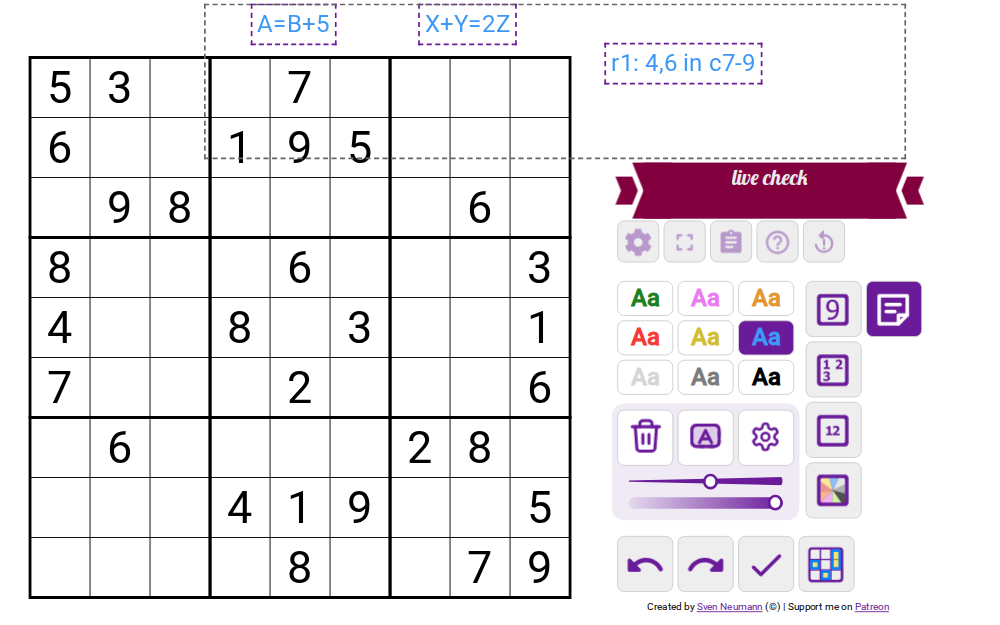
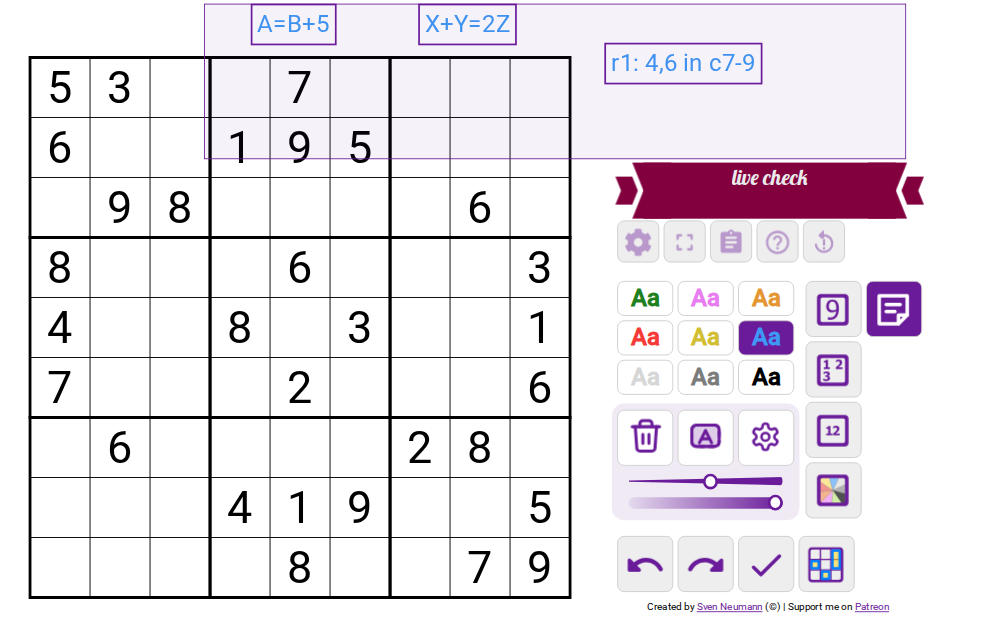
Text Anywhere: hover outline, move cursor, bigger handles, solid selection (#530) (#533)
* Text Anywhere: hover outline, move cursor, bigger handles, solid selection (#530)

Closes #530

* Text Anywhere pictures: retake slides 6, 7 and 9 with the new looks (#530)

Closes #530

* Text Anywhere hover look: the fill draws, the cue keeps its strength on a faded note; tests check color and fill (#530)

Closes #530

* Text Anywhere: retake slide 7 with the hover fill (#530)

Closes #530

* Draw tool scroll live test: a note off the board shows the move cursor, not the board's (#530)

Closes #530

---------

Changed region(s): [[0.217, 0.2432, 0.899, 0.2736], [0.217, 0.0, 0.899, 0.0304]]

diff --git a/draw-tool.user.js b/draw-tool.user.js
@@ -1,7 +1,7 @@
 // ==UserScript==
 // @name         SudokuPad Text Anywhere
 // @namespace    https://github.com/caneff/sudokupad-scripts
-// @version      0.30.1
+// @version      0.31.0
 // @description  Adds a Text Anywhere tool for typed notes on the board or beside it, such as cage sums, in colors of its own. Each puzzle keeps its own notes.
 // @match        https://sudokupad.app/*
 // @match        https://*.sudokupad.app/*
@@ -16,7 +16,7 @@
 (function () {
   'use strict'
 
-  const VERSION = '0.30.1'
+  const VERSION = '0.31.0'
   const TOOL_NAME = 'draw'
   const LAYER_ID = 'draw-tool-layer'
   const MIN_WIDTH = 1
@@ -230,7 +230,9 @@
   const HANDLE_CLASS = 'draw-tool-resize'
   const SELECTION_CLASS = 'draw-tool-selection'
   const OPEN_OUTLINE_CLASS = 'draw-tool-open-outline'
-  const HANDLE_PX = 10
+  const HANDLE_PX = 11
+  // A note's own opacity, as a number, for the hover look: it draws on the note and the note's opacity multiplies into it.
+  const NOTE_OPACITY_VAR = '--draw-tool-note-opacity'
   const RECTANGLE_CLASS = 'draw-tool-selection-rectangle'
   const TRAY_CLASS = 'draw-tool-tray'
   const SLIDERS_CLASS = 'draw-tool-sliders'
@@ -1565,6 +1567,7 @@
       maxHeight: limit,
       color: itemColor(item.color),
       opacity: String(itemOpacity(item) / 100),
+      [NOTE_OPACITY_VAR]: String(itemOpacity(item) / 100),
       backgroundColor: item.bg ? boxFill(boxColor, itemColor(item.color)) : 'transparent',
       boxShadow: item.bg ? frameShadow(frame) : 'none',
       textShadow: item.bg ? 'none' : haloShadow(outline, PAGE_COLOR),
@@ -1573,9 +1576,17 @@
     }
   }
 
+  // Sets a noteStyle on an element: a custom property needs setProperty, which assigning to the style's own fields does not do.
+  function applyNoteStyle (element, style) {
+    for (const [name, value] of Object.entries(style)) {
+      if (name.startsWith('--')) element.style.setProperty(name, value)
+      else element.style[name] = value
+    }
+  }
+
   // The open note sits in the layer itself, in screen pixels, on the board or off it.
   function styleNote (element, item, map) {
-    Object.assign(element.style, noteStyle(item, screenPoint(item, map.toScreen), map.scale))
+    applyNoteStyle(element, noteStyle(item, screenPoint(item, map.toScreen), map.scale))
     element.classList.toggle(TEXT_BACKGROUND_CLASS, Boolean(item.bg))
   }
 
@@ -1715,6 +1726,8 @@
   const PANEL = '.tool-draw .controls-input'
   const controlButtons = Object.keys(CONTROL_COLUMNS).map((name) => `${PANEL} button.${name}`).join(', ')
   // Each color button shows "Aa" in its draw color, so a recolor follows.
+  const hoverShare = (percent) => `color-mix(in srgb, ${PANEL_COLOR} min(100%, calc(${percent}% / var(${NOTE_OPACITY_VAR}))), transparent)`
+  const hoverLook = (outlinePercent, fillPercent) => `outline: 1px solid ${hoverShare(outlinePercent)}; outline-offset: 2px; background-image: linear-gradient(${hoverShare(fillPercent)}, ${hoverShare(fillPercent)});`
   const PANEL_CSS = [
     ...panelCss({ panel: PANEL, colorButton: 'button.digit', controlButtons, tray: TRAY_CLASS, sliders: SLIDERS_CLASS, sliderRow: SLIDER_ROW_CLASS, wedgeSlider: SIZE_SLIDER, fadeSlider: OPACITY_SLIDER }),
     `${PANEL} button.digit { text-indent: -999em; overflow: hidden; color: transparent; }`,
@@ -1737,16 +1750,18 @@
     // A thin bar whose room is kept whether it shows or not, so the text does not wrap again as the pointer comes and goes.
     `.${TEXT_CLASS}.${SCROLLS_CLASS} { overflow-y: auto; scrollbar-width: thin; scrollbar-color: transparent transparent; }`,
     `.${ACTIVE_CLASS} .${TEXT_CLASS}.${SCROLLS_CLASS}:hover { scrollbar-color: currentColor transparent; }`,
-    // Under every other tool a press or a move over a note goes to what lies under it, as if the notes were not there. A note keeps the cursor of the
-    // page around it: SudokuPad's pointer on the board, the arrow beside it.
-    `.${ACTIVE_CLASS} .${TEXT_CLASS}:not(.${TEXT_BOX_CLASS}) { pointer-events: auto; cursor: default; }`,
-    `.${ACTIVE_CLASS} .${BOARD_NOTES_CLASS} .${TEXT_CLASS} { cursor: pointer; }`,
+    // Under every other tool a press or a move over a note goes to what lies under it, as if the notes were not there. Under this one a closed note shows
+    // the move cursor, and a note neither selected nor open shows a faint outline and fill, so a click reads as selecting it and not as starting a new note.
+    // The hover look is drawn on the note itself, so each share is divided by the note's opacity, to a cap of all of it: a faded note's cue stays about as visible as the note.
+    // The fill is a background image because the note's inline background color, empty or its box, wins over any stylesheet color.
+    `.${ACTIVE_CLASS} .${TEXT_CLASS}:not(.${TEXT_BOX_CLASS}) { pointer-events: auto; cursor: move; }`,
+    `.${ACTIVE_CLASS} .${TEXT_CLASS}:not(.${TEXT_BOX_CLASS}, .${SELECTED_CLASS}):hover { ${hoverLook(35, 4)} }`,
     `:is(.${BOARD_NOTES_CLASS}, .${SCREEN_NOTES_CLASS}) { position: absolute; left: 0; top: 0; transform-origin: 0 0; }`,
     // The outline is a box of its own in the layer, since a note's opacity would fade an outline drawn on the note itself.
-    `.${SELECTION_CLASS} { position: absolute; box-sizing: border-box; pointer-events: none; outline: 2px dashed ${PANEL_COLOR}; outline-offset: 2px; }`,
+    `.${SELECTION_CLASS} { position: absolute; box-sizing: border-box; pointer-events: none; outline: 2px solid ${PANEL_COLOR}; outline-offset: 2px; }`,
     `.${SELECTION_CLASS}.${OPEN_OUTLINE_CLASS} { outline-width: 1px; outline-offset: 1px; }`,
-    `.${RECTANGLE_CLASS} { position: absolute; box-sizing: border-box; border: 1px dashed ${PANEL_COLOR}; background: color-mix(in srgb, ${PANEL_COLOR} 8%, transparent); }`,
-    `.${HANDLE_CLASS} { position: absolute; box-sizing: border-box; width: ${HANDLE_PX}px; height: ${HANDLE_PX}px; background: ${PANEL_COLOR}; border: 2px solid #fff; border-radius: 2px; pointer-events: auto; }`,
+    `.${RECTANGLE_CLASS} { position: absolute; box-sizing: border-box; border: 1px solid ${PANEL_COLOR}; background: color-mix(in srgb, ${PANEL_COLOR} 6%, transparent); }`,
+    `.${HANDLE_CLASS} { position: absolute; box-sizing: border-box; width: ${HANDLE_PX}px; height: ${HANDLE_PX}px; background: ${PANEL_COLOR}; border: 2px solid #fff; border-radius: 2px; box-shadow: 0 0 0 1px ${PANEL_COLOR}, 0 1px 3px rgb(0 0 0 / .3); pointer-events: auto; }`,
     `.${TEXT_BOX_CLASS} { pointer-events: auto; min-width: 0.3em; cursor: text; }`,
     // The tool bar is a grid and stock buttons have order 0, so Text Anywhere's stays last whenever another is added.
     `.controls-tool #control-${TOOL_NAME} { order: 1; }`
@@ -2202,7 +2217,7 @@
     const style = item.fixed ? noteStyle(item, drawnPoint(item), map.scale) : noteStyle(item, item.at, 1)
     const look = JSON.stringify(style)
     if (look !== shown.look) {
-      Object.assign(element.style, style)
+      applyNoteStyle(element, style)
       element.classList.toggle(TEXT_BACKGROUND_CLASS, Boolean(item.bg))
     }
     shownNotes.set(element, { ...shown, item, text: item.text, look })

diff --git a/site/index.html b/site/index.html
@@ -75,9 +75,9 @@
       <div class="slide-frame">
         <img class="slide current" src="https://raw.githubusercontent.com/caneff/sudokupad-scripts/main/docs/research/draw-tool/draw-tool-slide-1-type.png?v=39391d8" alt="Three orange lines typed with Enter in the margin beside the top rows, A=B+5, A+B=11 and B=3, A=8, with the Text Anywhere panel below them" width="1000" height="625">
         <img class="slide" src="https://raw.githubusercontent.com/caneff/sudokupad-scripts/main/docs/research/draw-tool/draw-tool-slide-3-background.png?v=d3874a9" alt="A bold red formula, A+B=11, on a cell edge with no box, and a red formula, X+Y=2Z, in a page-colored box that hides the grid lines under it, with the Background button on" width="1000" height="625">
-        <img class="slide" src="https://raw.githubusercontent.com/caneff/sudokupad-scripts/main/docs/research/draw-tool/draw-tool-slide-6-select.png?v=21c33b7" alt="Three blue notes in the margin, A=B+5 and X+Y=2Z above the grid and r1: 4,6 in c7-9 beside row 1, each with a dashed purple outline, selected by a dashed drag box and recolored from orange to blue together" width="1000" height="625">
-        <img class="slide" src="https://raw.githubusercontent.com/caneff/sudokupad-scripts/main/docs/research/draw-tool/draw-tool-slide-9-long.png?v=db4d63e" alt="A blue note in the margin, open for typing and made two lines tall with the handle on its bottom right corner, scrolled to the end to show 2B+5=11 and B=3, A=8, with its scroll bar beside the text" width="1000" height="625">
-        <img class="slide" src="https://raw.githubusercontent.com/caneff/sudokupad-scripts/main/docs/research/draw-tool/draw-tool-slide-7-erase.png?v=9777876" alt="A red ring on a green note above the grid reading A=B+5, where a right click lands" width="1000" height="625">
+        <img class="slide" src="https://raw.githubusercontent.com/caneff/sudokupad-scripts/main/docs/research/draw-tool/draw-tool-slide-6-select.png?v=4a3a9c7" alt="Three blue notes in the margin, A=B+5 and X+Y=2Z above the grid and r1: 4,6 in c7-9 beside row 1, each with a solid purple outline, selected by a solid purple drag box and recolored from orange to blue together" width="1000" height="625">
+        <img class="slide" src="https://raw.githubusercontent.com/caneff/sudokupad-scripts/main/docs/research/draw-tool/draw-tool-slide-9-long.png?v=5e97387" alt="A blue note in the margin, open for typing and made two lines tall with the handle on its bottom right corner, scrolled to the end to show 2B+5=11 and B=3, A=8, with its scroll bar beside the text" width="1000" height="625">
+        <img class="slide" src="https://raw.githubusercontent.com/caneff/sudokupad-scripts/main/docs/research/draw-tool/draw-tool-slide-7-erase.png?v=6d0db42" alt="A red ring on a green note above the grid reading A=B+5, which shows a faint purple outline under the pointer, where a right click lands" width="1000" height="625">
       </div>
       <div class="slide-bar">
         <div class="slide-captions">

diff --git a/site/draw-tool.html b/site/draw-tool.html
@@ -18,9 +18,9 @@
     <div class="slide-frame">
       <img class="slide current" src="https://raw.githubusercontent.com/caneff/sudokupad-scripts/main/docs/research/draw-tool/draw-tool-slide-1-type.png?v=39391d8" alt="Three orange lines typed with Enter in the margin beside the top rows, A=B+5, A+B=11 and B=3, A=8, with the Text Anywhere panel below them" width="1000" height="625">
       <img class="slide" src="https://raw.githubusercontent.com/caneff/sudokupad-scripts/main/docs/research/draw-tool/draw-tool-slide-3-background.png?v=d3874a9" alt="A bold red formula, A+B=11, on a cell edge with no box, and a red formula, X+Y=2Z, in a page-colored box that hides the grid lines under it, with the Background button on" width="1000" height="625">
-      <img class="slide" src="https://raw.githubusercontent.com/caneff/sudokupad-scripts/main/docs/research/draw-tool/draw-tool-slide-6-select.png?v=21c33b7" alt="Three blue notes in the margin, A=B+5 and X+Y=2Z above the grid and r1: 4,6 in c7-9 beside row 1, each with a dashed purple outline, selected by a dashed drag box and recolored from orange to blue together" width="1000" height="625">
-      <img class="slide" src="https://raw.githubusercontent.com/caneff/sudokupad-scripts/main/docs/research/draw-tool/draw-tool-slide-9-long.png?v=db4d63e" alt="A blue note in the margin, open for typing and made two lines tall with the handle on its bottom right corner, scrolled to the end to show 2B+5=11 and B=3, A=8, with its scroll bar beside the text" width="1000" height="625">
-      <img class="slide" src="https://raw.githubusercontent.com/caneff/sudokupad-scripts/main/docs/research/draw-tool/draw-tool-slide-7-erase.png?v=9777876" alt="A red ring on a green note above the grid reading A=B+5, where a right click lands" width="1000" height="625">
+      <img class="slide" src="https://raw.githubusercontent.com/caneff/sudokupad-scripts/main/docs/research/draw-tool/draw-tool-slide-6-select.png?v=4a3a9c7" alt="Three blue notes in the margin, A=B+5 and X+Y=2Z above the grid and r1: 4,6 in c7-9 beside row 1, each with a solid purple outline, selected by a solid purple drag box and recolored from orange to blue together" width="1000" height="625">
+      <img class="slide" src="https://raw.githubusercontent.com/caneff/sudokupad-scripts/main/docs/research/draw-tool/draw-tool-slide-9-long.png?v=5e97387" alt="A blue note in the margin, open for typing and made two lines tall with the handle on its bottom right corner, scrolled to the end to show 2B+5=11 and B=3, A=8, with its scroll bar beside the text" width="1000" height="625">
+      <img class="slide" src="https://raw.githubusercontent.com/caneff/sudokupad-scripts/main/docs/research/draw-tool/draw-tool-slide-7-erase.png?v=6d0db42" alt="A red ring on a green note above the grid reading A=B+5, which shows a faint purple outline under the pointer, where a right click lands" width="1000" height="625">
     </div>
     <div class="slide-bar">
       <div class="slide-captions">

diff --git a/GLOSSARY.md b/GLOSSARY.md
@@ -238,7 +238,7 @@
 - **move** — Text Anywhere's left-drag that starts on a text (the topmost): the **selection** follows the pointer, after the text is selected alone if it was not selected, and each text's stored place changes once, on release, pinned or fixed by where it is dropped. It stops at the last point inside the window and clear of the controls. A click with no drag selects the text. A left-drag that starts on a **resize handle** resizes the note and never moves it.
 - **nudge** — an arrow key pressed with notes **selected** and no **text box** open: it moves them 1 screen pixel, or 10 with Shift, and a key held down repeats it after 300 ms, the step growing over 1.5 s to 8 pixels (40 with Shift); no arrow key reaches
   SudokuPad's cell cursor. A nudge that would put a note out of reach moves none, and the move is saved when the key is released.
-- **selection** — the texts Text Anywhere has selected, each drawn with a dashed purple outline, a box of its own in the layer beside the note so a faded note does not fade it. A click on a text selects it alone, Shift+click adds or removes it, and a left-drag that starts on empty space, on the board or off it, draws a **selection rectangle** and selects every text whose box it touches (with Shift, adds them). While there is one, the color buttons, the **Size slider**, the **Transparency slider** and **Background** show and change the selected texts and not the next text's settings; a color the texts do not share shows no button picked. A click on empty space, Escape, opening a text and leaving the tool end it. Not saved.
+- **selection** — the texts Text Anywhere has selected, each drawn with a solid 2 px purple outline, a box of its own in the layer beside the note so a faded note does not fade it. A click on a text selects it alone, Shift+click adds or removes it, and a left-drag that starts on empty space, on the board or off it, draws a **selection rectangle** and selects every text whose box it touches (with Shift, adds them). While there is one, the color buttons, the **Size slider**, the **Transparency slider** and **Background** show and change the selected texts and not the next text's settings; a color the texts do not share shows no button picked. A click on empty space, Escape, opening a text and leaving the tool end it. Not saved.
 - **halo** — the outline in the page's color round each letter of a Text Anywhere note, a ring of 16 zero-blur `text-shadow`s (a stroke joins with miters and grows spikes on A, V, W, M and 4), so a note reads over digits, pencil marks and colored cells. Its reach is the **Outline setting**. A note with a background box has none, since the box is that color already.
 - **unreadable value** — a saved value its script's reader refuses (`lib/store.js`), as a later version's shape would be after a downgrade. The script
   goes on with its defaults (Text Anywhere shows no notes and saves none on that puzzle until Clear all or Restart), and the value as it was is copied under the same key with `_unreadable` added (`_unreadable2` and on for a second,
